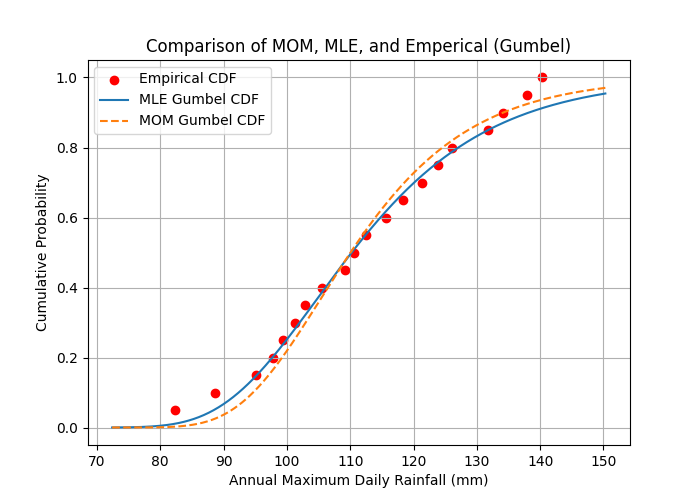
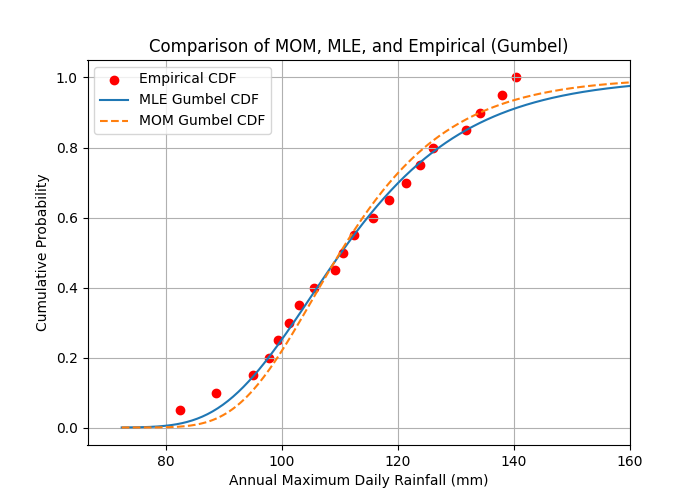
added Frechet distribution

diff --git a/_posts/2026-05-27-extreme-value-distributions.md b/_posts/2026-05-27-extreme-value-distributions.md
@@ -1,14 +1,19 @@
 # Extreme Value Distributions
 ## Table of Contents
 
-- [Extreme Value Theory](#extreme-value-theory)
-  - [Fisher-Tippett-Gnedenko Theorem](#fisher-tippett-gnedenko-theorem)
-  - [Gumbel Distribution (Type-I)](#gumbel-distribution-type-i)
+[Extreme Value Theory](#extreme-value-theory)
+- [Fisher-Tippett-Gnedenko Theorem](#fisher-tippett-gnedenko-theorem)
+- [Gumbel Distribution (Type-I)](#gumbel-distribution-type-i)
     - [Standard Gumbel Distribution](#standard-gumbel-distribution)
     - [Method of Moments (MOM)](#method-of-moments-mom)
-    - [Maximum Likelihood Estimation (MLE)](#maximum-likelihood-estimation-mle)
+    - [Maximum Likelihood Estimation (MLE) (Gumbel)](#maximum-likelihood-estimation-mle-gumbel)
     - [Return Levels (MOM and MLE)](#return-levels-mom-and-mle)
-      - [Bonus Plot](#bonus-plot)
+      - [Bonus Plot (Gumbel)](#bonus-plot-gumbel)
+- [Fréchet Distribution (Type-II)](#fréchet-distribution-type-ii)
+    - [Standard Fréchet Distribution](#standard-fréchet-distribution)
+    - [Maximum Likelihood Estimation (MLE) (Fréchet)](#maximum-likelihood-estimation-fréchet)
+    - [Return Levels (Fréchet)](#return-levels-fréchet)
+        - [Bonus Plot (Fréchet)](#bonus-plot-fréchet)
 
 # Extreme Value theory
 Extreme value theory, or extreme value analysis (EVA), is the study of extremes in statistical distributions. This theory is extensively applied within hydrology for estimating rainfall distributions and / or flood events (such as a 100-year rainfall or 100-year flood). Similarly, it may be applied to estimate wave actions in the design hydraulic infrastructure. EVA may assess either the maxima or minima within a dataset, however, it is far more common to assess maxima within hydrology. 
@@ -56,7 +61,7 @@ $$f(x) = \exp\left[-\left(x+\exp(-x)\right)\right]$$
 Let's work through an example using a synthetic 20-year precipitation dataset in Python. The dataset has already been processed to present an annual maxima series of 24-hour (1-day) rainfall. Feel free to copy the table into an Excel sheet if Python isn't your thing. Within the following sections, the data is assumed to come from `annual_max_rainfall.csv`. 
 
 | year | annual_max_mm |
-| --- | --- |
+| :---: | :---: |
 | 2001 | 82.4 |
 | 2002 | 95.1 |
 | 2003 | 101.3 |
@@ -96,8 +101,7 @@ Next, we must decide if we're using the *Method of Moments* (MOM) or *Maximum Li
 | Method of Moments | Simple, closed-form, fast | Less accurate for skewed extremes |
 | Maximum Liklihood Estimation | Statistically efficient, widely used | Requires numerical optimization |
 
-
-#### Method of Moments (MOM)
+### Method of Moments (MOM)
 When using the Method of Moments, we utilize the mean and standard deviation of the data to solve for our location $\mu$ and scale $\beta$ parameters. If we define $\bar{x}$ and $s$ to reflect mean and standard deviation respectively, and we know that
 
 $$\bar{x} = \mu + \gamma\beta$$
@@ -133,7 +137,7 @@ MOM β: 12.818978711625254
 ```
 Let's look at approaching this from the Maximum Likelihood Estimation next, before plotting the two distributions together to observe any differences.
 
-#### Maximum Likelihood Estimation (MLE)
+### Maximum Likelihood Estimation (MLE) (Gumbel)
 The Maximum Liklihood Estimation uses numerical optimization to select parameters ($\mu$, $\beta$) that make the observed data **most likely**. So instead of matching moments ($\bar{x}$, $s$), MLE asks "if my dada came from a Gumbel distribution, which $\mu$ and $\beta$ make that most probable?". The Gumbel PDF is
 
 $$f(x) = \frac{1}{\beta}\exp\left[-\frac{x-\mu}{\beta}-\exp\left(-\frac{x-\mu}{\beta}\right)\right]$$
@@ -245,7 +249,7 @@ Return Levels (MLE):
 ```
 Close, but not exaclty the same. In this case, the MLE approach provides larger return period estimations. Why might this be?
 
-#### Bonus Plot
+#### Bonus Plot (Gumbel)
 For fun, let's plot these distributions together and see how different they look visually. This may be more challenging in Excel as you'd may have to create an output column for each distribution prior being able to create a graph.
 
 ```python
@@ -271,4 +275,193 @@ Excluding the console output, the plots generated are provided below.
 
 ![Comparison of Method of Moments and Maximum Likelihood Estimation for a Gumbel Extreme Value Distribution](/img/extreme_value/gumbel_methods_comparison.png)
 
+---
 
+## Fréchet Distribution (Type-II)
+
+The Fréchet distribution, also known as the inverse Weibull distribution, is a special case of the generalized extreme value distribution. Similar to the Gumbel distribution above, it is generalized to include a location parameter $m$ and a scale parameter $s > 0$ with the general cumulative distribution function
+
+$$\mathbb{P}(X \leq x) = \exp\left[-\left(\frac{x-m}{s}\right)^{-\alpha}\right] \hspace{8pt} \text{if} \hspace{8pt} x>m $$
+
+
+where $\alpha > 0$ is a shape parameter. In hydrology, the Fréchet distribution is applied typically to extreme events as annual maximum one-day rainfalls and river discharges. In general, this distribution is used when the extrems are **more severe and less bounded**. 
+
+The generalized probability density function of the Fréchet distribution is
+
+$$f(x) = \frac{\alpha}{s}\left(\frac{x-m}{s}\right)^{-1-\alpha}\exp\left(-\frac{x-m}{s}^{-\alpha}\right)$$
+
+### Standard Fréchet Distribution
+
+The standard Fréchet distribution is the case where $\alpha=1$, $s=1$, and $m=0$ with the cumulative distribution function
+
+$$\mathbb{P}(X \leq x) = \exp(-x^{-\alpha}) \hspace{8pt}\text{if} \hspace{8pt} x>0 $$
+
+
+
+To see the effects of these parameters, check out the image below from the [Wikipedia article](https://en.wikipedia.org/wiki/Fr%C3%A9chet_distribution) on the Fréchet Distribution. Note that the image shows the probability density function.
+
+![Fréchet Distribution Parameter Dependence](/img/extreme_value/frechet_parameter_dependence.png)
+
+Now that we've worked through the Gumbel distribution using our annual maxima rainfall dataset, let's extend the exact same workflow to the Fréchet distribution. This can let us see and directly compare how a heavy-tailed distribution behaves relative to the lighter-tailed Gumbel.
+
+### Maximum Likelihood Estimation (Fréchet)
+
+Unlike the Gumbel distribution, the Fréchet distribution does not lend itself well to a simple Method of Moments solution in this context. As a result, we proceed directly with the Maximum Likelihood Estimation. But why is this?
+
+Recall that the Method of Moments works by matching mean and variance (standard deviation) to their theoretical expressions (recall in the Gumbel example we used the location $\mu$ and scale $\beta$ parameters to calculate mean and standard deviation). However, for the Fréchet distribution, the mean exists only if $\alpha > 1$, and the variance only exists if $\alpha > 2$. The reason behind this is complicated but is a consequence of the convergence requirements of the integrals used in calculating the mean and variance (not shown here for the sake of sanity). 
+
+Think of it like this - Fréchet allows very large values with non-negligible probability. As $\alpha$ decreases, the tail gets heavier, and the extreme values become more influential. The mean is an average, so if extremely large values occur often enough, they pull the average upward without bound. This results in no range of viable $\alpha$ to calculate mean and variance to derive the distribution parameters directly $(\alpha, s, m)$. A summary is below.
+
+| $\alpha$ Range | Consequence |
+| :--- | :--- |
+| $\alpha \leq 1$ | Mean $\rightarrow \infty$ (no finite average) |
+| $1 < \alpha \leq 2$ | Mean exists, variance $\rightarrow \infty$ |
+|$\alpha > 2$| Mean, variance $\rightarrow \infty$|
+
+The Maximum Likelihood approach remains the same, where we select parameters $(\alpha, s, m)$ that make the observed rainfall data most likely under a Fréchet model. The simplify the optimization, we again work with the log-likelihood. Let
+
+$$ z_i = \frac{x_i-m}{s} $$
+
+then the liklihood function is
+
+$$\mathcal{L}(\alpha,s, m) = \prod_{i = 1}^{n}\left[\frac{\alpha}{s}\left(z_i\right)^{-1-\alpha}\exp\left(-z_i^{-\alpha}\right)\right]$$
+
+which is is simplified by some complicated math involving natural logarithms to become
+
+$$\ell(\alpha,s, m) = n\ln\alpha-n\ln s - (1+\alpha)\sum\ln z_i - \sum z_i^{-\alpha}$$
+
+As before, there is no closed-form solution, so numerical optimization is required. The implement in python, we will again need to utilize `minimize` from `scipy.optimize`. We will also recreate our dataframe by reading from our file `annual_max_rainfall.csv`.
+
+```python
+import pandas as pd
+import numpy as np
+from scipy.optimize import minimize
+
+df = pd.read_csv("annual_max_rainfall.csv")
+x = df["annual_max_mm"].values
+n = len(x)
+
+def frechet_loglik(params, data):
+    alpha, s, m = params
+    
+    # enforce constraints
+    if alpha <= 0 or s <= 0:
+        return np.inf
+    
+    z = (data - m) / s
+    
+    # ensure valid domain
+    if np.any(z <= 0):
+        return np.inf
+    
+    logL = (
+        len(data)*np.log(alpha)
+        - len(data)*np.log(s)
+        - (1+alpha)*np.sum(np.log(z))
+        - np.sum(z**(-alpha))
+    )
+    
+    return -logL
+```
+
+Next, we call the optmizer and set our initial conditions
+
+```python
+alpha0 = 2.0
+s0 = np.std(x)
+m0 = min(x) - 1  # ensure m < data
+
+res = minimize(
+    frechet_loglik,
+    x0=[alpha0, s0, m0],
+    args=(x,),
+    method="Nelder-Mead"
+)
+
+alpha_mle, s_mle, m_mle = res.x
+
+print("Fréchet α:", alpha_mle)
+print("Fréchet s:", s_mle)
+print("Fréchet m:", m_mle)
+```
+After running, the console output should read
+
+```console
+Fréchet α: 79059310.52360749
+Fréchet s: 1175360005.6098711
+Fréchet m: -1175359900.823351
+```
+
+### Return Levels (Fréchet)
+
+The return level definition is identical to what we used before
+
+$$F(x_T) = 1 - \frac{1}{T}$$
+
+which, after substituting the Fréchet CDF and solving for $x_T$, becomes
+
+$$x_T = m + s\left[-ln\left(1-\frac{1}{T}\right)\right]^{-1/\alpha}$$
+
+To implement in python, we define this return level function and range of return levels to assess, just as before.
+
+```python
+def frechet_return_level(T, alpha, s, m):
+    return m + s * (-np.log(1 - 1/T))**(-1/alpha)
+
+Ts = [2, 5, 10, 25, 50, 100]
+
+print("\nReturn Levels (Fréchet):")
+for T in Ts:
+    print(T, frechet_return_level(T, alpha_mle, s_mle, m_mle))
+```
+
+After running, the console output should read (after expluding the parameter output)
+
+```console
+Return Levels (Fréchet):
+2 110.2353994846344
+5 127.08584833145142
+10 138.24231147766113
+25 152.3385329246521
+50 162.79591488838196
+100 173.17608165740967
+```
+
+In this particular example, the Gumbel and Fréchet return level predictions are nearly identical. This is not coincidental, but rather a reflection of the dataset itself. The annual maxima series does not exhibit strongly heavy-tailed behaviour, as there are no exceptionally large outliers or extreme deviations. As a result, when fitting the Fréchet distribution using MLE, the estimated shape parameter $\alpha$ becomes relatively large, which effectively reduces the heaviness of the tail. In this regime, the Fréchet distribution behaves similarly to a Gumbel distribution over the observed range of data. Additionally, the relatively small sample size limits our ability to distinguish between tail behaviours, causing both models to produce comparable return level estimates. Significant divergence between the two approaches would typically only arise in datasets that contain more pronounced extreme events.
+
+#### Bonus Plot (Fréchet)
+
+Let's extend the previous plot and include the Fréchet distribution, assuming `matplotlib.pyplot` was previously imported as `plt` and the Gumbel distribution is in the same file
+
+```python
+def frechet_cdf(x, alpha, s, m):
+    z = (x - m) / s
+    F = np.zeros_like(x)
+    valid = z > 0
+    F[valid] = np.exp(-(z[valid])**(-alpha))
+    return F
+
+xs = np.linspace(min(x)-10, max(x)+50, 400)
+
+plt.figure(figsize=(7,5))
+
+plt.scatter(np.sort(x), np.linspace(1/n, 1, n),
+            color="red", label="Empirical CDF")
+
+plt.plot(xs, gumbel_cdf(xs, mu_mle, beta_mle),
+         label="MLE Gumbel CDF")
+
+plt.plot(xs, frechet_cdf(xs, alpha_mle, s_mle, m_mle),
+         label="Fréchet CDF")
+
+plt.xlabel("Annual Maximum Daily Rainfall (mm)")
+plt.ylabel("Cumulative Probability")
+plt.legend()
+plt.grid(True)
+plt.show()
+```
+Excluding the console output, the plots generated are provided below. As can be seen, when the data does not strongly indicate heavy-tail behaviour, different extreme value models can converge to very similar predictions, even if their theoretical foundations differ.
+
+![Comparison of Maximum Likelihood Estimation for Fréchet and Gumbel Extreme Value Distributions](/img/extreme_value/frechet_gumbel_comparison.png)
+
+---